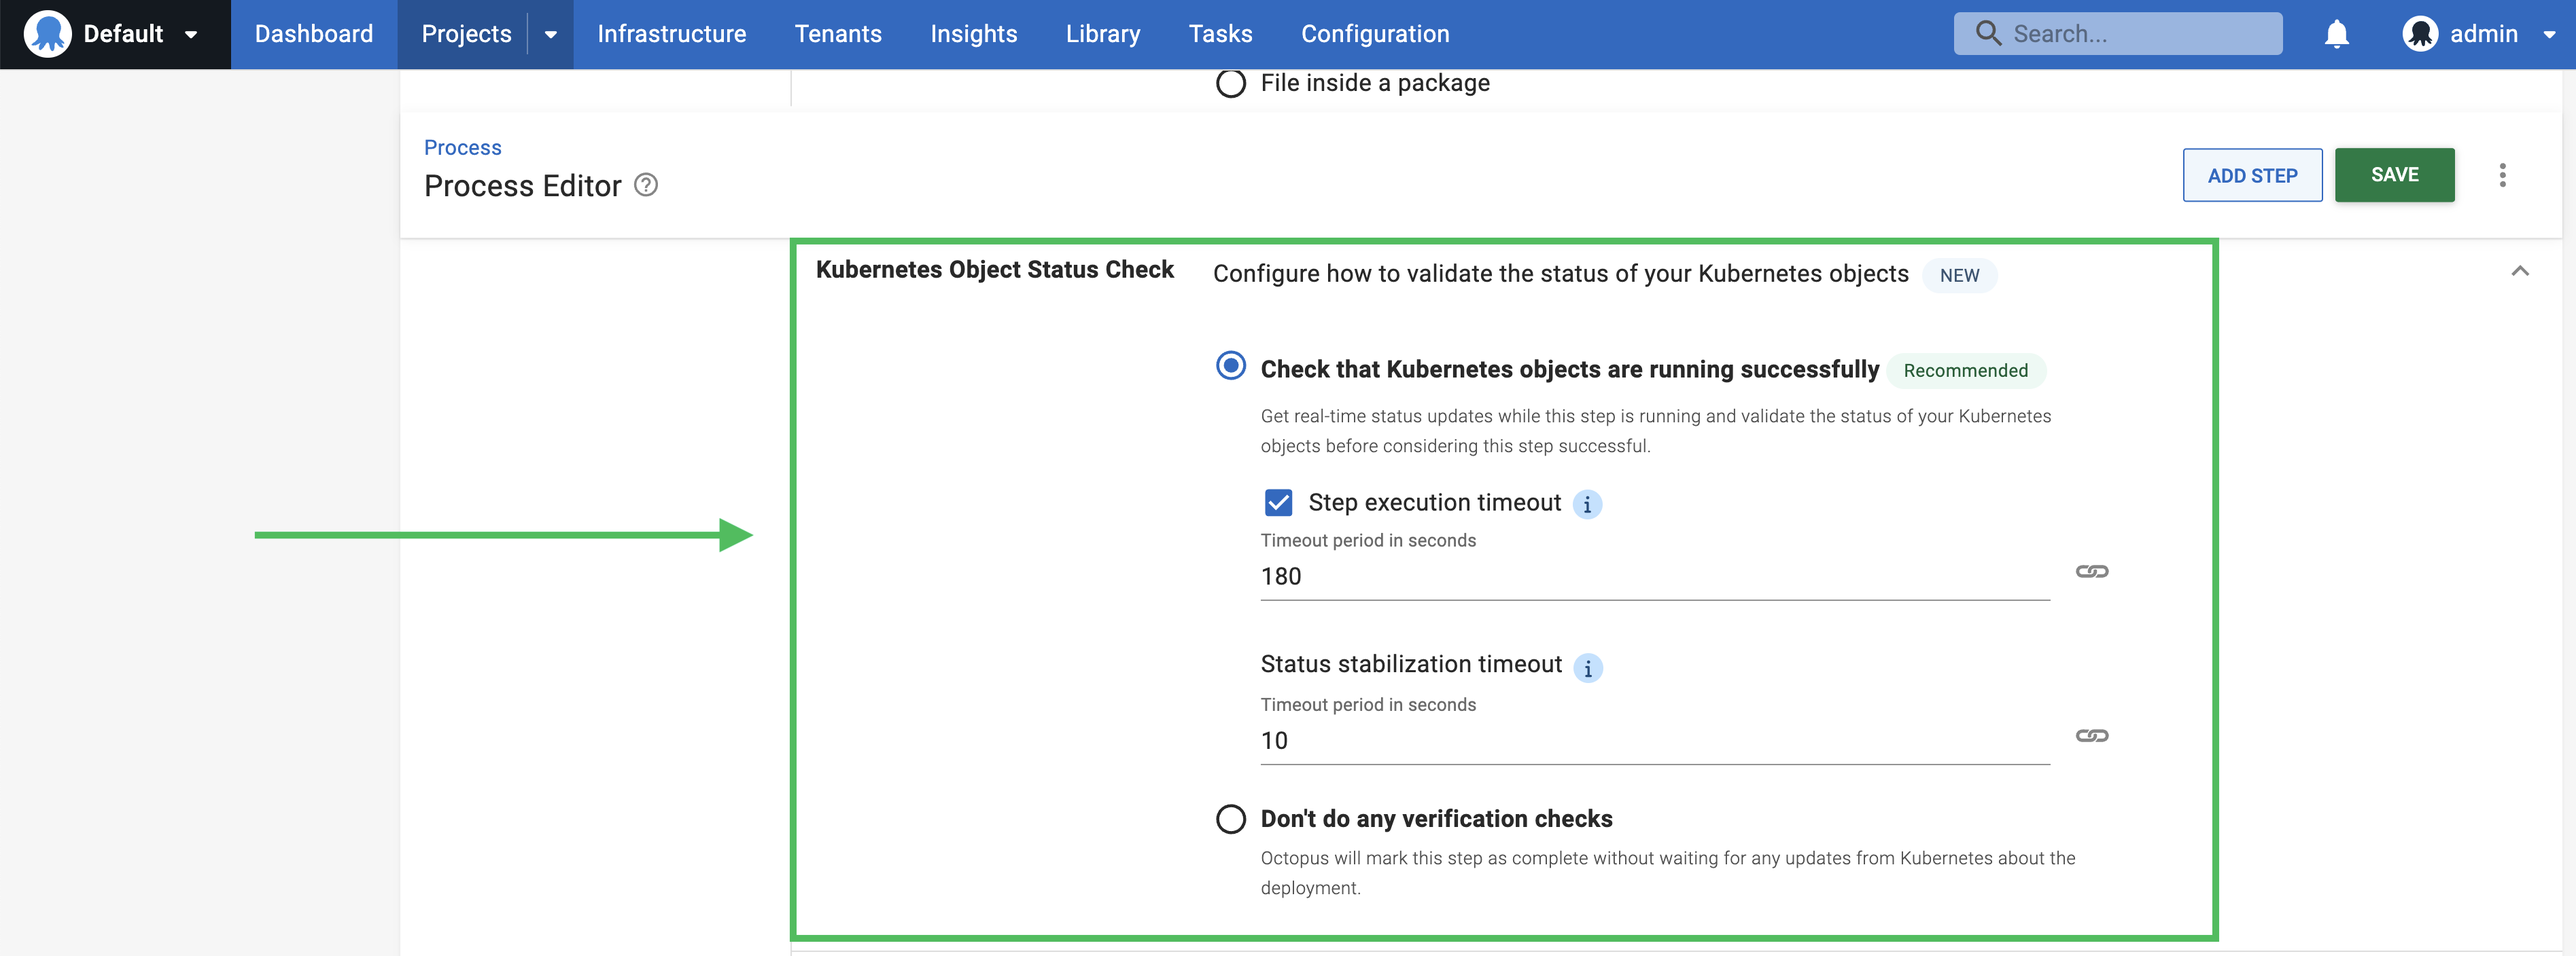
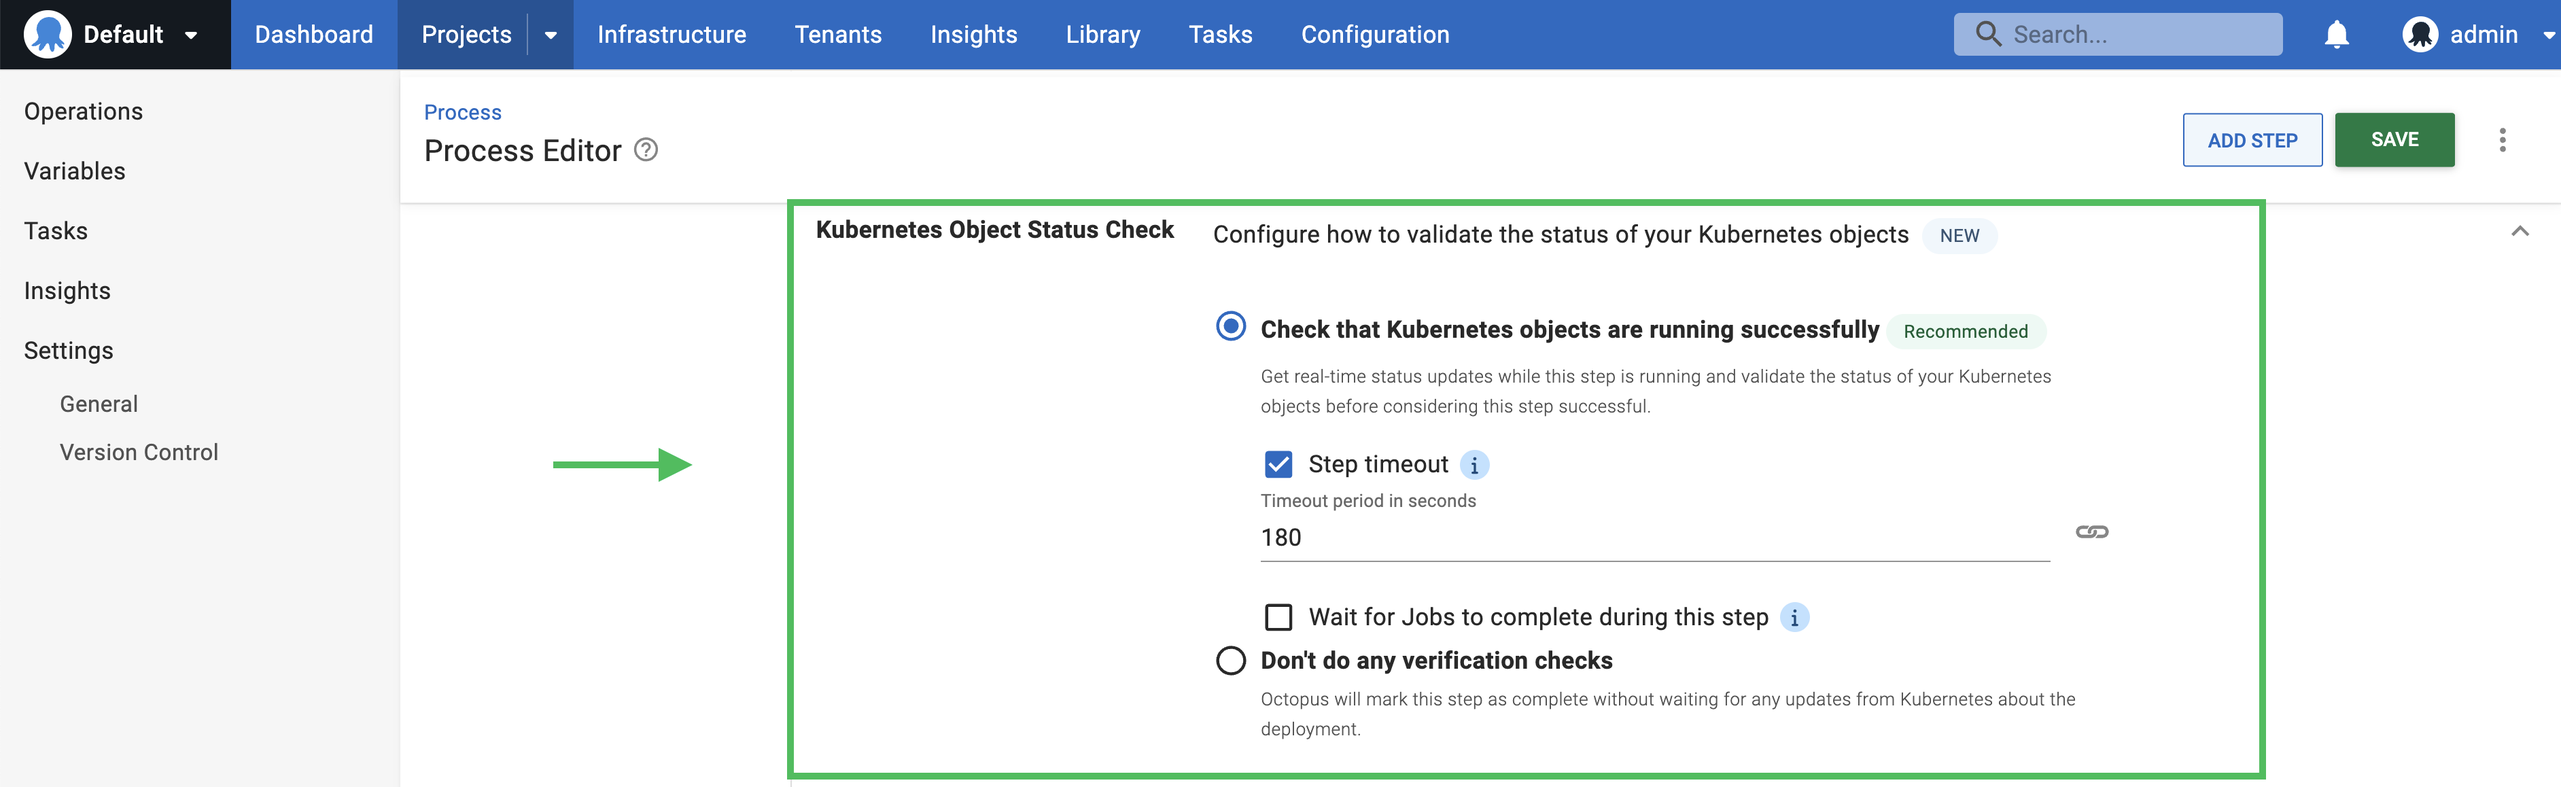
Update docs

diff --git a/blog/2023-04/live-updates-kubernetes-objects-deployments/index.md b/blog/2023-04/live-updates-kubernetes-objects-deployments/index.md
@@ -117,25 +117,19 @@ If you're re-configuring a project you created before the release of this featur
 
 ![screenshot of the Kubernetes object status check options](kubernetes-object-status-check-options.png)
 
-You can also configure 2 optional timeouts:
+You can also configure 2 options:
 
-- **Step execution timeout**
+- **Step timeout**
 
-![screenshot of the step execution timeout section](step-execution-timeout.png)
+This timeout is the total time allowed for all Kubernetes objects in the action to be deployed. If any resources defined directly in this step are not in a successful state by the end of this timeout period, the step will stop executing and be marked as failed. You can disable this timeout if you don't want to set a time limit.
 
-This timeout is the total time allowed for all Kubernetes objects in the action to be deployed. If any resources are not in a successful state by the end of this timeout period, the step will stop executing and be marked as failed. You can disable this timeout if you don't want to set a time limit.
+- **Wait for Jobs to complete during deployment**
 
-- **Status stabilization timeout**
+You will find this option if the step you are deploying supports Kubernetes Jobs, such as the **[Deploy raw Kubernetes YAML](https://octopus.com/docs/deployments/kubernetes#raw-yaml-step)** step, and the **Deploy Kubernetes containers** step with "Jobs" as the resource type.
 
-![screenshot of the stabilization timeout section](status-stabilization-timeout.png)
+When this option is checked, Octopus will wait until any Kubernetes Jobs created in the deployment to complete or fail before finishing this step. Otherwise, Octopus treats Jobs as successful as soon as they are created without waiting for their execution.
 
-This timeout adds more stability to your deployment. Sometimes a Kubernetes object can have temporary failures but fixes itself eventually.
-
-For example, a pod may fail to spin up due to a temporary connection issue to the container registry, but it will be created successfully when the internet connection is back.
-
-You can use the stabilization timeout to prevent this kind of temporary failure from causing a failed deployment.
-
-When this timeout is set above 0, Octopus waits for the period configured after the step fails or succeeds. The step is marked as failed or successful only if the status does not change throughout this timeout period.
+By default, this option is unchecked. This is compatible with the current behaviour, which is not waiting for Jobs to execute.
 
 ## Caveats
 
